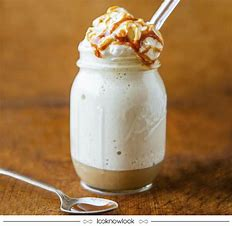
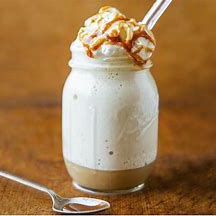
Edit halaman_pesan.html sama bikin foto jadi 1x1 Changes to be committed: 	modified:   assets/img/Produk/Alpukat Latte.jpg 	modified:   assets/img/Produk/Hazelnut Mocha.jpg 	modified:   assets/img/Produk/Ikan Gurame Dabu-dabu.jpg 	modified:   assets/img/Produk/bakmi goreng.png 	modified:   assets/im

diff --git a/halaman_pesan.html b/halaman_pesan.html
@@ -9,6 +9,54 @@
     <link href="https://cdn.jsdelivr.net/npm/bootstrap@5.0.2/dist/css/bootstrap.min.css" rel="stylesheet"
         integrity="sha384-EVSTQN3/azprG1Anm3QDgpJLIm9Nao0Yz1ztcQTwFspd3yD65VohhpuuCOmLASjC" crossorigin="anonymous">
     <link rel="stylesheet" href="assets/style.css">
+    <style>
+        .card {
+            margin: auto;
+            width: 600px;
+            max-width: 600px;
+            border-radius: 20px
+        }
+
+        .mt-50 {
+            margin-top: 50px;
+            margin-bottom: 50px;
+        }
+
+        #orderno {
+            padding: 2vh 2vh 0;
+            font-size: 18px
+        }
+
+        .title {
+            display: flex;
+            text-align: center;
+            font-size: 2rem;
+            font-weight: bold;
+            padding: 12%
+        }
+
+        .main {
+            padding: 0 2rem
+        }
+
+        .main img {
+            border-radius: 7px
+        }
+
+        .row-main {
+            padding: 1.5vh 0;
+            align-items: center
+        }
+
+        hr {
+            margin: 1rem -1vh;
+            border-top: 1px solid rgb(214, 214, 214)
+        }
+
+        .total {
+            font-size: 1rem
+        }
+    </style>
 
 </head>
 
@@ -35,9 +83,10 @@
             <!-- Mid elements -->
             <div class="d-flex align-items-center"></div>
             <div class="input-group margin-lr">
-                <input type="text" class="form-control form-control-sm border-radius p-15" placeholder="Cari Makanan Favorit Kamu" aria-label="Username"
-                    aria-describedby="search">
-                <span class="input-group-text border-radius" id="search"><img src="assets/img/search.png" alt="" class="icon-size"></span>
+                <input type="text" class="form-control form-control-sm border-radius p-15"
+                    placeholder="Cari Makanan Favorit Kamu" aria-label="Username" aria-describedby="search">
+                <span class="input-group-text border-radius" id="search"><img src="assets/img/search.png" alt=""
+                        class="icon-size"></span>
             </div>
             <!-- Right elements -->
             <div class="d-flex align-items-center">
@@ -47,8 +96,8 @@
                 </a>
                 <!-- Avatar -->
                 <div class="d-flex align-items-center">
-                    <img src="assets/img/user.png" class="rounded-circle" height="25" alt="Default" loading="lazy" / > 
-                    <span class="nama-user">Ramandhika Ilham</span> 
+                    <img src="assets/img/user.png" class="rounded-circle" height="25" alt="Default" loading="lazy" />
+                    <span class="nama-user">Ramandhika Ilham</span>
                 </div>
             </div>
             <!-- Right elements -->
@@ -56,6 +105,72 @@
         <!-- Container wrapper -->
     </nav>
     <!-- Navbar -->
+    <div class="card mt-50 mb-50">
+        <div class="col d-flex"><img src="assets/img/back.png" alt=""><span class="card-title" id="orderno">Keranjang</span></div><hr>
+        <div class="title mx-auto"> Thank you for your order! </div>
+        <div class="main"> 
+            <span class="card-category">
+                <p><b>Makanan Laut</b></p>
+            </span>
+            <div class="row row-main">
+                <div class="col-3"> <img class="img-fluid" src="assets/img/Produk/gulai patin.jpg"> </div>
+                <div class="col-6">
+                    <div class="row d-flex">
+                        <span class="card-title"><b>Gulai Patin</b></span>
+                    </div>
+                    <div class="row d-flex">
+                        <span class="card-category">Rp 56.000</span>
+                    </div>
+                </div>
+                <div class="col-3 d-flex justify-content-end">
+                    <span class="card-category"><b>$599</b></span>
+                </div>
+            </div><hr>
+            <span class="card-category">
+                <p><b>Makanan Non Laut</b></p>
+            </span>
+            <div class="row row-main">
+                <div class="col-3"> <img class="img-fluid" src="assets/img/Produk/swedish meatballs.jpg"> </div>
+                <div class="col-6">
+                    <div class="row d-flex">
+                        <span class="card-title"><b>Swedish Meatball</b></span>
+                    </div>
+                    <div class="row d-flex">
+                        <span class="card-category">Rp 60.000</span>
+                    </div>
+                </div>
+                <div class="col-3 d-flex justify-content-end">
+                    <span class="card-category"><b>$199</b></span>
+                </div>
+            </div><hr>
+            <span class="card-category">
+                <p><b>Minuman Non Alkohol </b></p>
+            </span>
+            <div class="row row-main">
+                <div class="col-3 "> <img class="img-fluid" src="assets/img/Produk/jelly coffe.jpg"> </div>
+                <div class="col-6">
+                    <div class="row d-flex">
+                        <span class="card-title"><b>Jelly Coffe</b></span>
+                    </div>
+                    <div class="row d-flex">
+                        <p class="card-category">Rp 45.000</p>
+                    </div>
+                </div>
+                <div class="col-3 d-flex justify-content-end">
+                    <span class="card-category"><b>$49.95</b></span>
+                </div>
+            </div>
+            <hr>
+            <div class="total">
+                <div class="row">
+                    <div class="col">  Total Harga: <br>
+                    <b class="card-category">Rp 161.000</b>
+                    </div>
+                    <div class="col d-flex justify-content-end"> <button class="btn">BELI</button>   </div>
+                </div>
+            </div>
+        </div>
+    </div>
 </body>
 
 </html>

diff --git a/assets/style.css b/assets/style.css
@@ -62,7 +62,7 @@ hr {
     margin-right: -30px;
 }
 
-.card-title{
+.card-title {
     font-size: 15.5px;
     font-weight: bold;
 }
@@ -77,4 +77,17 @@ hr {
     font-size: 15px;
     font-weight: bold;
     color: #25BF55;
+}
+
+.btn {
+    background-color: #25BF55;
+    border-color: #25BF55;
+    color: white;
+    border-radius: 7px;
+    margin-bottom: 20px;
+    width: 30%;
+    font-size: 0.8rem;
+    padding: 0.8rem;
+    justify-content: center;
+    font-weight: bold;
 }
